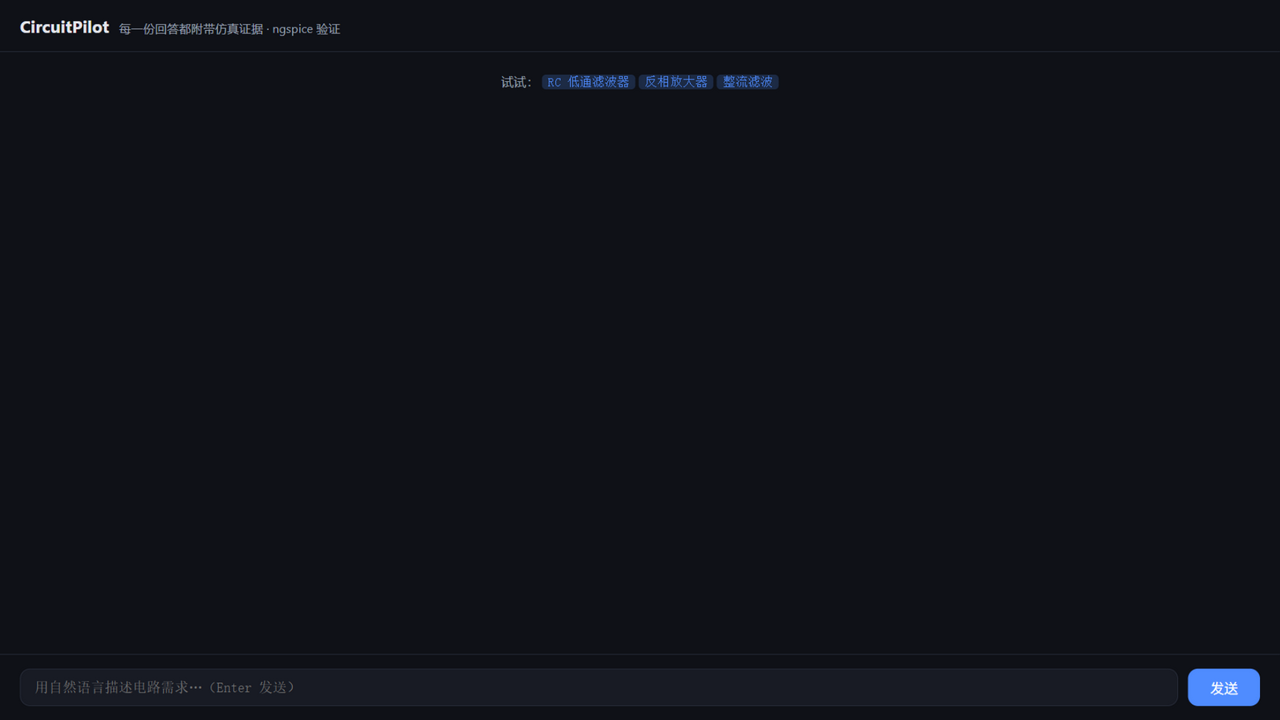
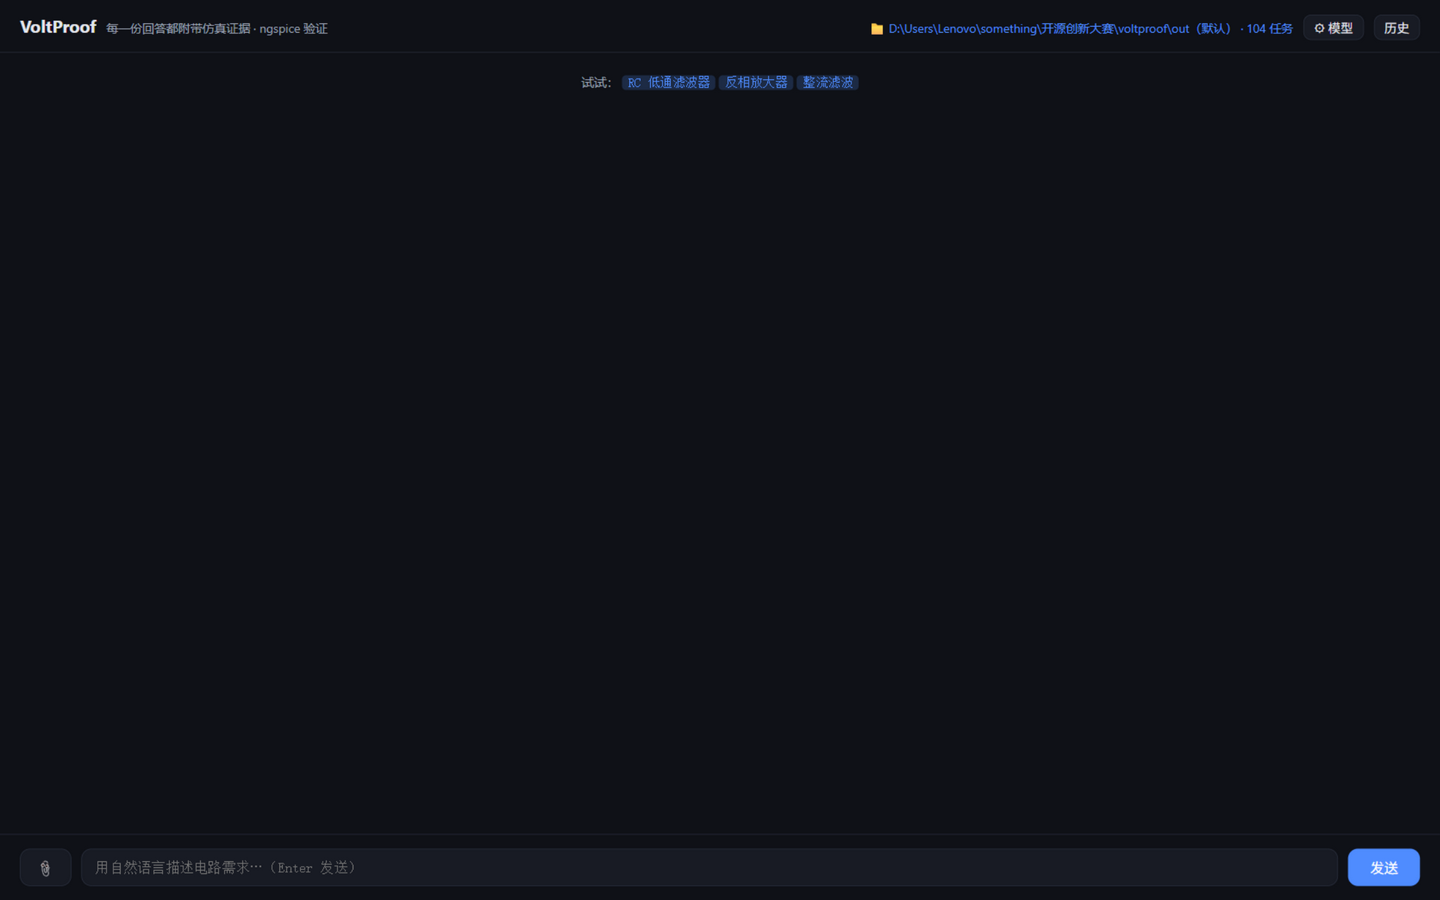
chore: 清理内部过程细节，重拍产品截图
- 注释中移除内部规划编号/开发周次标记、会话式日期记录与课程文档引用，
  技术内容（踩坑结论、实测数据）全部保留
- 信号合成实验任务集元数据中性化，去除旧项目名残留
- 开源回归脚本的示例目录改为环境变量配置，去除硬编码本机路径
- 忽略规则精简，纯本地条目移至本地排除文件
- 三张产品截图重拍：更名后的界面 + 缓存回放的真实证据卡 + 对照页

diff --git a/static/index.html b/static/index.html
@@ -204,7 +204,7 @@ function escapeHtml(s) {
 input.addEventListener('keydown', e => { if (e.key === 'Enter' && !e.shiftKey) { e.preventDefault(); send(); } });
 send_.addEventListener('click', send);
 
-// ---- 工作区（ZCode/dsh 模型：用户决定在哪个目录工作，产物全部留在其中）----
+// ---- 工作区（用户决定在哪个目录工作，产物全部留在其中）----
 async function loadWsInfo() {
   try {
     const d = await (await fetch('/api/ws')).json();

diff --git a/app/ngspice_runner.py b/app/ngspice_runner.py
@@ -1,4 +1,4 @@
-"""ngspice 子进程执行器。一律命令行调用（进程隔离，无 GPL 传染）。  [W1]
+"""ngspice 子进程执行器。一律命令行调用（进程隔离，无 GPL 传染）。
 
 Windows 下若 ngspice 不在 PATH，设环境变量 VOLTPROOF_NGSPICE 指向 ngspice.exe。
 
@@ -20,16 +20,16 @@ from pathlib import Path
 
 _NGSPICE = os.environ.get("VOLTPROOF_NGSPICE", "ngspice")
 # 超时可覆盖；默认 30s：正常的 tran 远快于此，收敛死循环 30s 也救不回来，
-# 卡满 60s 只是烧掉重试预算（综合实验曾一电路拖满 4×60s）
+# 卡满 60s 只是烧掉重试预算（曾有电路拖满 4×60s）
 _TIMEOUT = int(os.environ.get("VOLTPROOF_SIM_TIMEOUT", "30"))
 
-# 安全过滤（2026-09-21 审查发现）：ngspice .control 块支持 shell 等系统命令，
+# 安全过滤：ngspice .control 块支持 shell 等系统命令，
 # 用户/LLM 网表可借此执行任意系统命令（实测 PoC 成功）——一律拒绝。
 # quit 只退出 ngspice 无副作用，放行（否则误伤正常网表习惯）。
 _CTRL_DANGER = re.compile(r"^\s*(shell|system|alias|spice|exec|source|cd)\b",
                           re.IGNORECASE)
 # .control 内启动外部程序的命令：gnuplot 拉起 wgnuplot 绘图前端、edit 拉起
-# 外部编辑器——不执行任意命令但会在服务器桌面弹 GUI 窗口（2026-09-22 官方
+# 外部编辑器——不执行任意命令但会在服务器桌面弹 GUI 窗口（ngspice 官方
 # 示例 plot/combplot.cir 回归实测：未装 gnuplot 时弹"找不到文件 wgnuplot"）
 _CTRL_EXTERNAL = re.compile(r"^\s*(gnuplot|edit)\b", re.IGNORECASE)
 # .include/.lib 拒绝绝对/网络路径（相对 ../ 允许——ngspice 示例的惯用法，
@@ -103,7 +103,7 @@ class SimResult:
         if not text.strip():
             # 找不到可执行文件/超时等报错不含关键字，直接透传原始输出尾部
             # （log 也要进兜底链：ngspice 静默空跑时 stdout/stderr 全空、
-            # 诊断信息只在 -o 日志里——2026-09-22 调试时它缺席导致误判）
+            # 诊断信息只在 -o 日志里——它缺席曾导致误判）
             text = (self.stderr or self.stdout or self.log
                     or "仿真失败，且 stderr/stdout/日志均为空")[-800:]
         return text.strip()[:2000]
@@ -125,15 +125,15 @@ def _run_capped(args: list, cwd: Path, timeout: int, cap: int = 8 * 1024 * 1024)
 
     subprocess.run 的 timeout 依赖 communicate 的读取线程——当子进程输出
     海量数据（如 .control 里 print/plot 把绘图数据打到 stdout）时读取
-    线程会阻塞，超时机制随之失效、调用永久挂死（2026-09-21 开源网表
+    线程会阻塞，超时机制随之失效、调用永久挂死（开源网表
     回归实测：combplot 类示例挂死进程）。改为独立线程计数读取，超上限
     或超时直接 kill。
     cwd 必须先 resolve 成绝对路径：Windows 的 CreateProcess 对相对
     lpCurrentDirectory 行为未定义——ngspice 实测要么挂死到超时、要么
-    静默空跑（2026-09-22 定位：同一网表相对 cwd 必挂、绝对 cwd 0.5s）。
+    静默空跑（同一网表相对 cwd 必挂、绝对 cwd 0.5s）。
     子进程 stdin 必须显式关闭（DEVNULL）：ngspice-47 Windows 批处理模式
     会读继承来的 stdin——stdin 是永不 EOF 的管道（服务进程/后台调用）时
-    进程挂死到超时（2026-09-22 实测：终端交互正常、脚本内调用全部超时）。"""
+    进程挂死到超时（实测：终端交互正常、脚本内调用全部超时）。"""
     p = subprocess.Popen(args, cwd=str(Path(cwd).resolve()), stdin=subprocess.DEVNULL,
                          stdout=subprocess.PIPE, stderr=subprocess.PIPE)
     buf: dict[str, list] = {"out": [], "err": []}
@@ -193,7 +193,7 @@ def run_netlist(netlist_text: str, workdir: str | Path | None = None) -> SimResu
                              "stdout 打印绘图数据），已终止", "", None, time.monotonic() - t0)
         if timed_out:
             # 超时被杀的进程三路输出常为空——不点明原因，修复环只能对着
-            # "日志均为空"盲改（2026-09-22 CIDER 网表实测挂死 30s 一无所获）
+            # "日志均为空"盲改（CIDER 网表实测挂死 30s 一无所获）
             stderr = (f"仿真超时：{_TIMEOUT}s 内未完成已被终止（无输出产生）。常见原因："
                       "数值收敛死循环（理想受控源环路/高 Q 谐振/不支持的器件类型）；"
                       "建议给理想受控源串 RC 限幅、减小仿真时长或更换电路拓扑"

diff --git a/app/measure.py b/app/measure.py
@@ -1,8 +1,8 @@
-"""仿真输出解析与指标计算。spyci(MIT) 解析 ngspice raw 文件，numpy 算指标。  [W1]
+"""仿真输出解析与指标计算。spyci(MIT) 解析 ngspice raw 文件，numpy 算指标。
 
 所有出现在"证据卡片"上的数字必须来自这里，不许由 LLM 报数。
 
-符号纪律（2026-09-19 综合实验踩坑）：
+符号纪律（曾因对 real 数据取 abs 踩坑）：
   - 瞬态/工作点（flags=real）必须保留符号，取 .real——对 real 数据取 abs
     会把负半周全部翻正，波形和均值全是"全波整流"后的错误数据；
   - 交流扫描（flags=complex）才取模（幅频特性）。
@@ -25,7 +25,7 @@ class Traces:
     # 数据来自哪种分析：ac（复数取模）/ tran / op（单点）。
     # 验收器必须区分——同一份"幅度"数组，AC 里是各频点增益、tran 里是瞬时
     # 电压，混用会把恒定 1.0 的 AC 源算成 ptp=0 再除出 1e14 的荒谬增益
-    # （2026-09-22 bench 实测：sensor-conditioning 假失败即此因）
+    # （bench 实测：sensor-conditioning 假失败即此因）
     analysis: str = "unknown"
 
 
@@ -179,7 +179,7 @@ def _parse_ascii_plot(text: str) -> Traces:
 
 
 # ---------------------------------------------------------------------------
-# 谱分析（2026-09-19 新增）：ngspice 自适应步长的 raw 时间轴不均匀（dt 可差
+# 谱分析：ngspice 自适应步长的 raw 时间轴不均匀（dt 可差
 # 两个数量级），直接 FFT 全是伪影——必须先重采样到均匀网格。
 # ---------------------------------------------------------------------------
 

diff --git a/tests/test_offline.py b/tests/test_offline.py
@@ -1,4 +1,4 @@
-"""离线冒烟测试：不依赖 LLM，验证仿真器/解析/绘图/检查器链路。  [W1/W2]
+"""离线冒烟测试：不依赖 LLM，验证仿真器/解析/绘图/检查器链路。
 
 运行：python tests/test_offline.py   （零依赖自写断言，不引入 pytest）
 """
@@ -481,7 +481,7 @@ print("OUT_NODES: v(OUT)")
             r1_line = [ln for ln in tuned3.splitlines() if ln.startswith("R1")][0]
             check("tuner: 基波电阻不动", "10k" in r1_line, r1_line)
 
-        # ---- 9. 安全过滤（2026-09-21 审查：两个实测 PoC 的回归）----
+        # ---- 9. 安全过滤（两个实测 PoC 的回归）----
         from app.ngspice_runner import check_netlist_safety
         from app.sandbox import ast_check, minimal_env
 
@@ -528,7 +528,7 @@ print("OUT_NODES: v(OUT)")
             check("analysis: op 网表识别为 op",
                   measure.load_traces(sim_op2.raw_path).analysis == "op")
 
-        # ---- 11. 起振/限幅确定性修复（2026-09-22 bench 两失败任务的闭环）----
+        # ---- 11. 起振/限幅确定性修复（bench 两失败任务的闭环）----
         OSC_NL = ("* square osc 1k (relaxation)\nV1 vcc 0 DC 12\n"
                   "Rf out in 4.55k\nC1 in 0 100n\nR1 out fb 10k\nR2 fb 0 10k\n"
                   "X1 fb in out opamp\n.subckt opamp a b c\nE1 c 0 a b 100000\n.ends\n"

diff --git a/app/tuner.py b/app/tuner.py
@@ -1,6 +1,6 @@
 """程序化数值调参：按验收器输出的结构化 tune_hint 确定性地修改网表数值。
 
-动机（2026-09-20）：调参环此前由 LLM 全量重写网表执行 f∝1/RC 类比例校正，
+动机：调参环此前由 LLM 全量重写网表执行 f∝1/RC 类比例校正，
 执行不稳定（exp1 频率在 900↔1179Hz 摆动）。判分层（验收器）比 LLM 更清楚
 "哪个指标差多少"，让它直接输出可执行的调参指令，本模块确定性执行——
 数值搜索 + 仿真验证，比语言模型重写收敛可靠。
@@ -224,7 +224,7 @@ def _tune_clamp(lines: list[str]) -> int:
     只动增益绝对值 ≥1000 的 E 源——运放级；增益 1 的求和/缓冲 E 源是
     功能块，钳位反而破坏电路。VALUE 形式的 E 源（可能已带钳位）跳过。
     钳位用 max(lo,min(x,hi))：ngspice-47 的 limit() 实测不做钳位
-    （静态回垃圾值），min/max 三工作点验证正确（2026-09-22）。"""
+    （静态回垃圾值），min/max 三工作点验证正确。"""
     supply = 0.0
     for ln in lines:
         m = re.match(r"^V\w+\s+\S+\s+\S+\s+DC\s+([-+0-9.eE]+[a-zA-Z]*)", ln, re.IGNORECASE)

diff --git a/app/checks.py b/app/checks.py
@@ -1,6 +1,6 @@
-"""网表静态检查：在不跑仿真的前提下拦住最典型的低级错误。  [W2]
+"""网表静态检查：在不跑仿真的前提下拦住最典型的低级错误。
 
-四类检查（对应路线图 2.2）：
+四类检查：
   1. 缺参考地（没有任何元件接到节点 0）
   2. 浮空节点（某节点在所有元件端点里只出现一次 = 悬空）
   3. 可疑数值（1M 大写兆歧义写法直接禁止，要求 Meg/1000k；R/C/L 值为 0）
@@ -17,7 +17,7 @@ from dataclasses import dataclass, field
 
 # CIDER 数值器件模型类型（官方示例实测收集：examples/cider 下 nbjt/numos/numd）。
 # 标准 ngspice-47 Windows 构建未编译 CIDER 支持且无任何报错——子进程直接
-# 挂死到超时（2026-09-22 实测 60s+ 无输出），必须在仿真前静态拦下
+# 挂死到超时（实测 60s+ 无输出），必须在仿真前静态拦下
 _CIDER_MODEL_TYPES = {"nbjt", "numos", "numd", "nujfet"}
 
 # 元件类别：首字母 -> (节点字段的取法, 最少 token 数)

diff --git a/bench/run_exp.py b/bench/run_exp.py
@@ -1,6 +1,6 @@
-"""综合实验（信号波形合成实验）能力测试跑批。
+"""信号波形合成实验能力测试跑批。
 
-任务集：bench/exp_tasks.json（提示词逐条来自《综合实验要求.docx》）。
+任务集：bench/exp_tasks.json（提示词逐条来自实验任务书）。
 执行方式与真实用户一致：T1 全新设计，T2-T4 走会话链（在上一轮验证通过的
 网表上继续修改），每任务留存完整证据到 bench/exp/<task_id>/。
 
@@ -42,7 +42,7 @@ def main() -> None:
         print(f"prompt: {t['prompt']}")
         t0 = time.monotonic()
         try:
-            # 综合实验电路（振荡+分频+滤波链）比 bench 任务重：放宽重试预算
+            # 实验电路（振荡+分频+滤波链）比 bench 任务重：放宽重试预算
             ev = run_pipeline(t["prompt"], previous_netlist=prev_netlist,
                               max_retries=5, validators=get_validators(t["id"]),
                               backend=backend)

diff --git a/bench/exp_validators.py b/bench/exp_validators.py
@@ -1,4 +1,4 @@
-"""综合实验在环验收器：把《综合实验要求.docx》的指标判定接入 pipeline 重试环。
+"""信号波形合成实验在环验收器：把实验任务书的指标判定接入 pipeline 重试环。
 
 与 bench/verify_exp.py（独立验收仪器，自写 raw 解析）判定口径对齐，但这里
 复用产品的 measure 模块解析（load_traces 已修符号 bug + 均匀重采样），
@@ -18,7 +18,7 @@ sys.path.insert(0, str(Path(__file__).resolve().parent.parent))
 
 from app.measure import Traces, dominant_freq, harmonic_amp  # noqa: E402
 
-# 激励/中间节点不算输出（综合实验电路里的振荡源、分频器输出）
+# 激励/中间节点不算输出（实验电路里的振荡源、分频器输出）
 _SRC_PAT = ("osc", "div", "clk", "pulse")
 # 合成输出节点的典型命名
 _OUT_PAT = ("sum", "synth", "tri", "sqr", "out", "sq")

diff --git a/app/main.py b/app/main.py
@@ -1,4 +1,4 @@
-"""FastAPI 入口：对话接口 + 同题对照裸调用接口 + 工作区端点 + 静态托管。  [W3]
+"""FastAPI 入口：对话接口 + 同题对照裸调用接口 + 工作区端点 + 静态托管。
 
 启动：uvicorn app.main:app --reload
   http://127.0.0.1:8000            -> static/index.html   产品对话页
@@ -6,7 +6,7 @@
   POST /chat      {session_id, message} -> 证据包 JSON（仿真在环）
   POST /demo/raw  {message}             -> 裸 LLM 回复（对照组，无仿真）
 
-工作区（ZCode/dsh 模型）：
+工作区：
   启动时经 VOLTPROOF_WORKSPACE 绑定（缺省 = 仓库 out/），运行中可经
   POST /api/ws/open 切换。agent 的所有产物与会话状态都落在当前工作区内。
   /api/files 只在当前工作区内取文件（路径守卫在 Workspace.resolve）。

diff --git a/bench/bench_validators.py b/bench/bench_validators.py
@@ -89,7 +89,7 @@ def _gain_check(ev, tr, target, tol, name, frac_out="out", frac_in="in"):
     if tr is not None and tr.analysis == "ac":
         # AC 数据是各频点幅值：增益 = 通带内 |out|/|in|（低频段均值）。
         # 不能用 ptp——AC 源幅值恒定（如 AC 1 时 in 全程=1.0，ptp=0），
-        # 除以 ptp 会得出 1e14 级荒谬增益（2026-09-22 sensor 假失败实锤）
+        # 除以 ptp 会得出 1e14 级荒谬增益（sensor 假失败实锤）
         n = max(len(yo) // 6, 1)  # 最低 ~1/6 频程视为通带
         with np.errstate(divide="ignore", invalid="ignore"):
             ratio = np.asarray(yo[:n], dtype=float) / np.asarray(yi[:n], dtype=float)

diff --git a/app/pipeline.py b/app/pipeline.py
@@ -185,8 +185,8 @@ def run_pipeline(request: str, previous_netlist: str | None = None,
         except Exception as e:  # 波形解析失败不致命，证据卡降级
             ev.retry_log.append({"round": rnd, "stage": "measure", "problems": [f"波形解析失败: {e}"]})
 
-        # ---- 验收环：实测指标 vs 需求（2026-09-19 综合实验教训：
-        # "仿真跑通"≠"实验达标"，差距必须回喂 LLM 调参重跑）----
+        # ---- 验收环：实测指标 vs 需求（"仿真跑通"≠"实验达标"，
+        # 差距必须回喂 LLM 调参重跑）----
         if validators:
             vchecks: list[dict] = []
             for v in validators:
